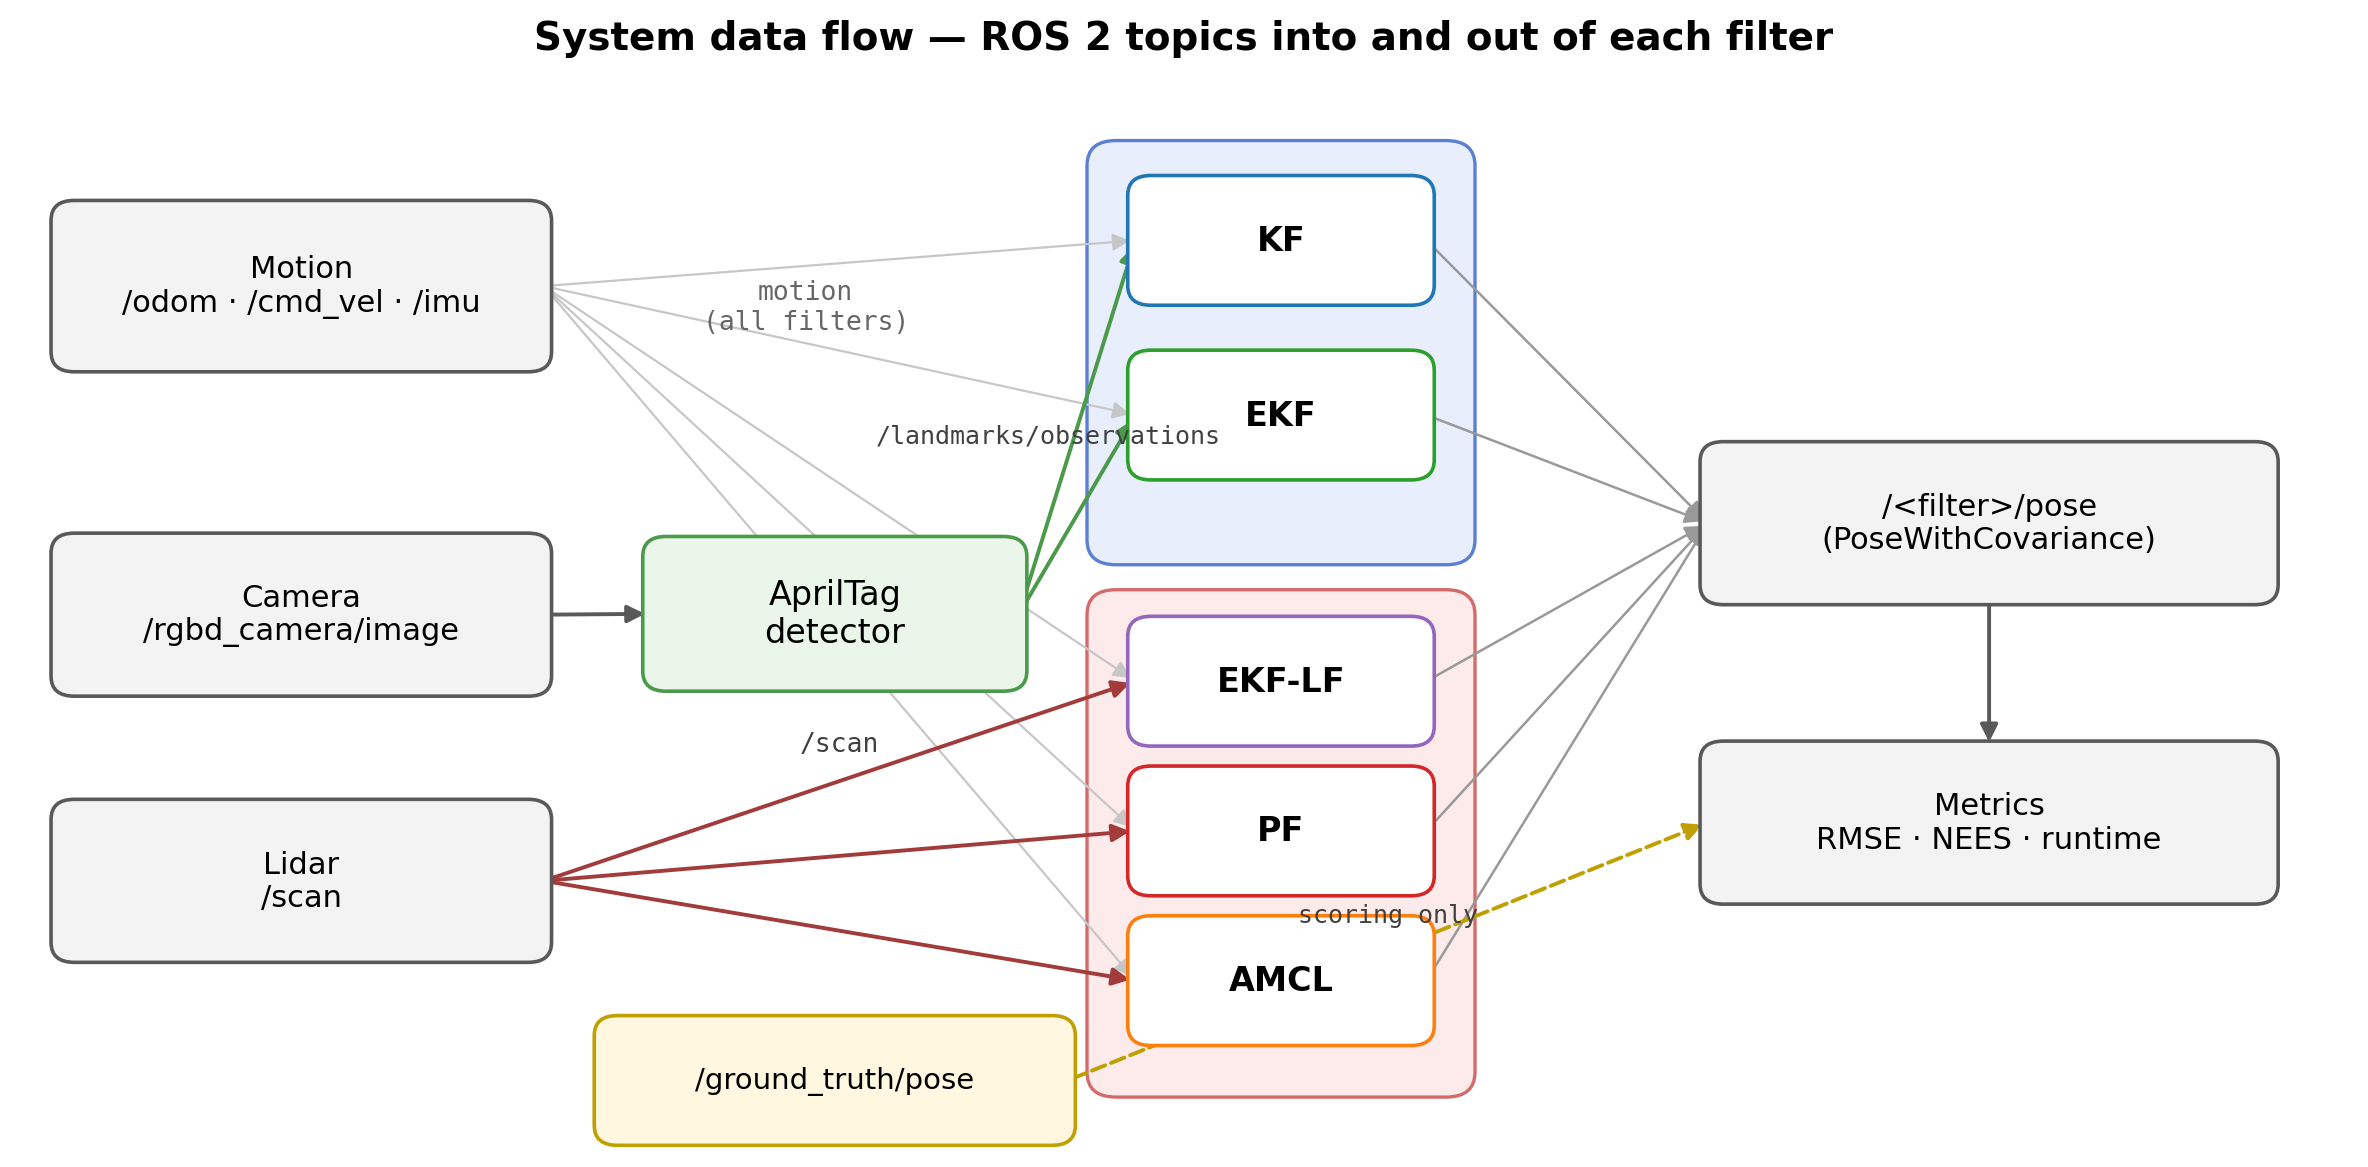
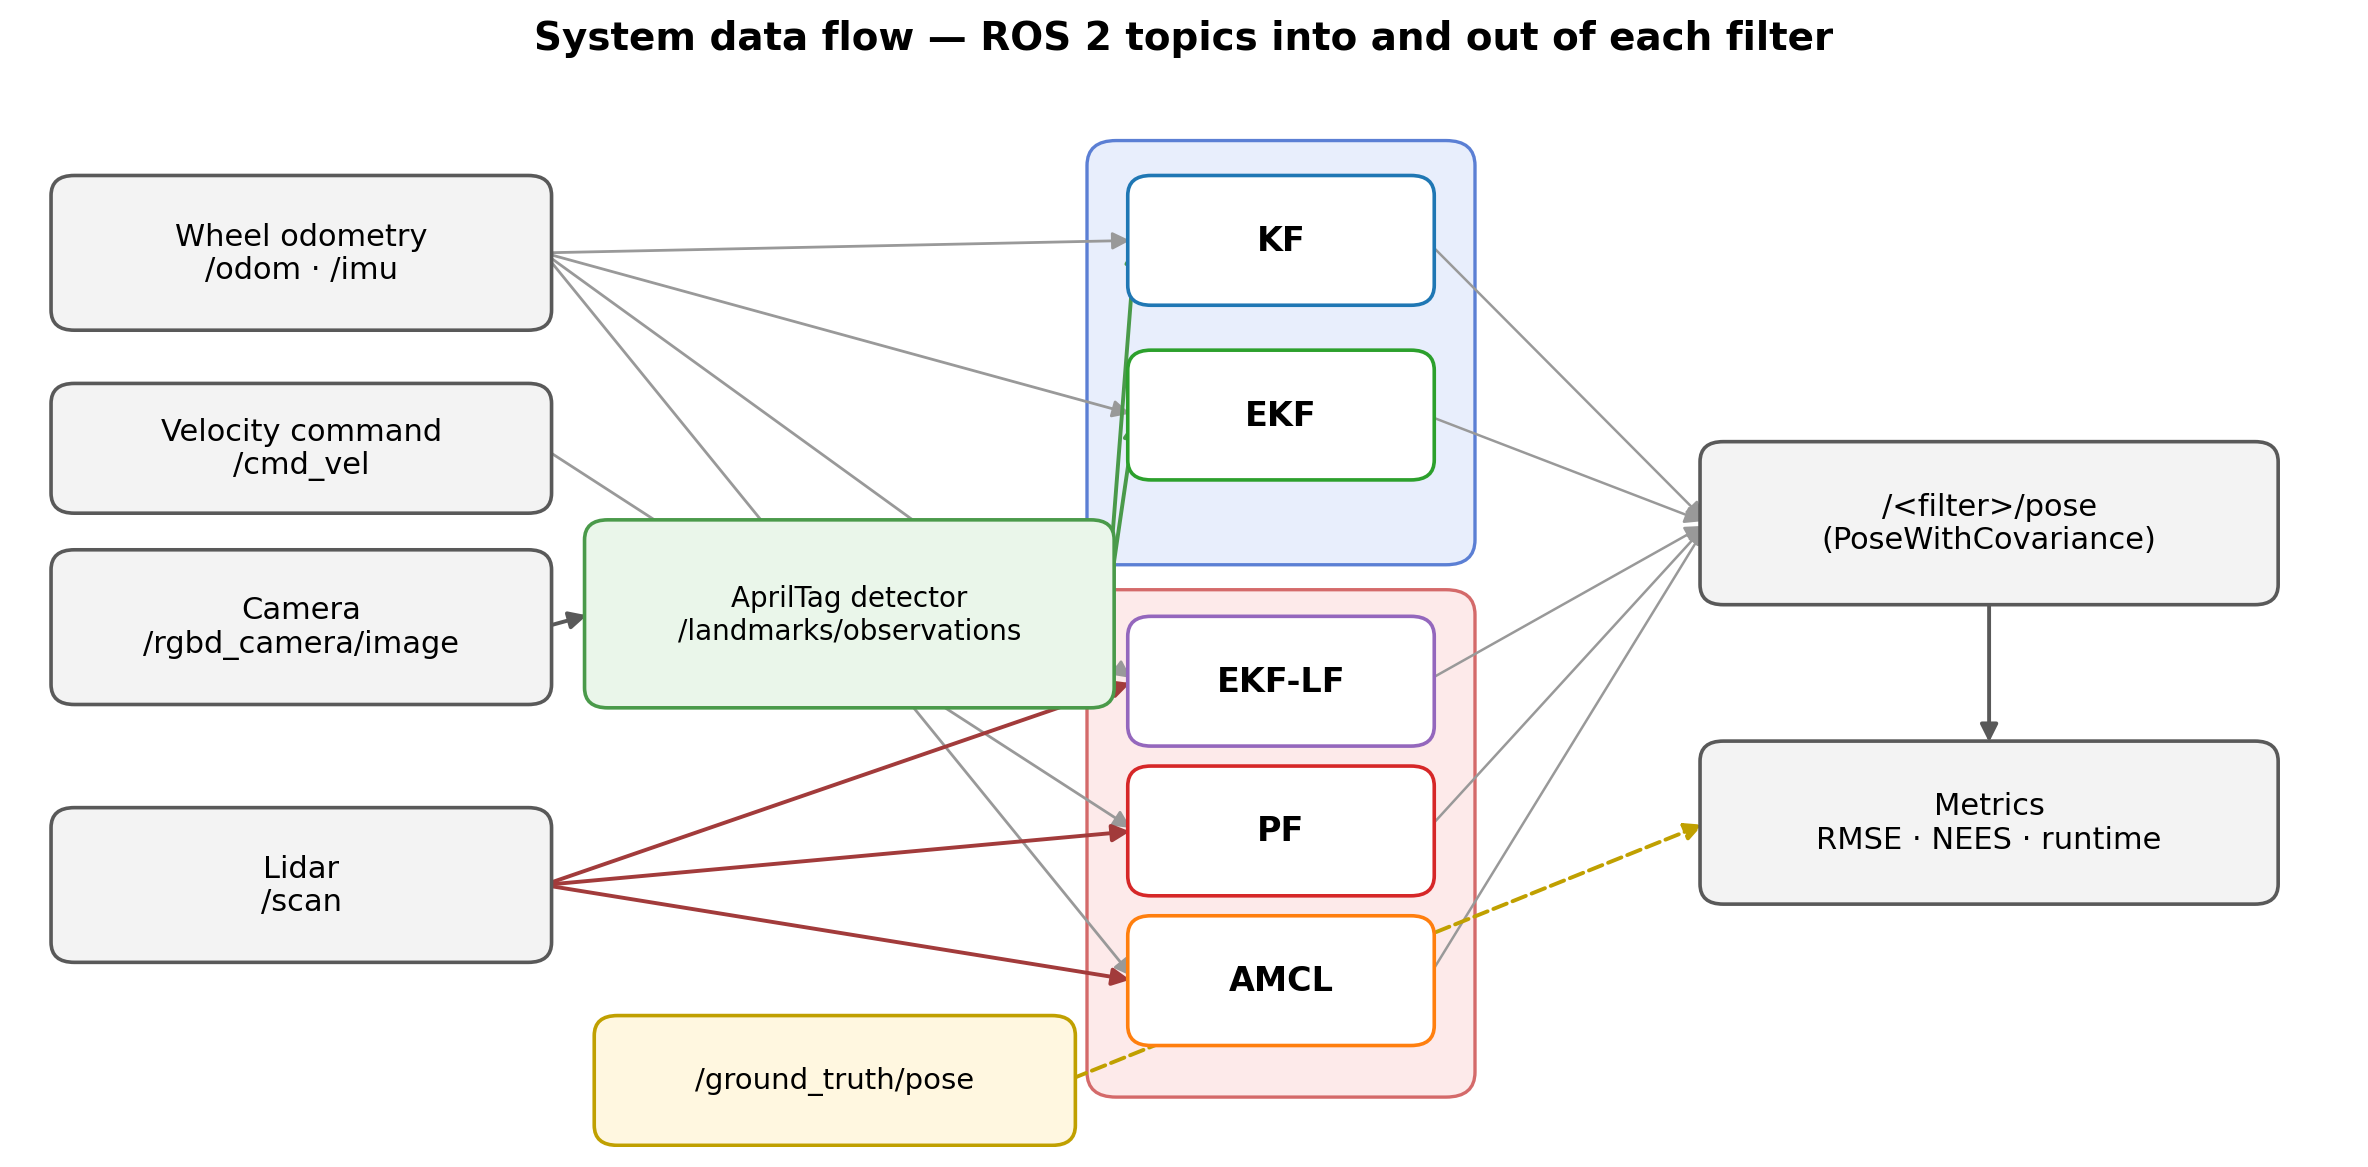
fix(dataflow): correct motion inputs (/odom+/imu vs /cmd_vel for PF), all labels inside boxes; update paper caption

diff --git a/ProbRob_Paper_Template_Englisch/paper.tex b/ProbRob_Paper_Template_Englisch/paper.tex
@@ -55,7 +55,7 @@ All experiments run on a simulated TurtleBot~4 (differential drive) in Gazebo~\c
 \begin{figure*}[!t]
     \centering
     \includegraphics[width=0.96\textwidth]{images/dataflow.png}
-    \caption{System data flow. Wheel odometry, \texttt{/cmd\_vel} and the IMU drive every filter's motion model; the camera image is turned by the AprilTag detector into \texttt{/landmarks/observations} consumed by the landmark filters (KF, EKF), while \texttt{/scan} drives the scan filters (EKF-LF, PF, AMCL). Each filter publishes \texttt{/<filter>/pose}; ground truth feeds the metrics only, never a filter.}
+    \caption{System data flow. Wheel odometry (\texttt{/odom}) and the IMU drive the motion model of KF, EKF and EKF-LF (and AMCL via TF); the PF instead uses the \texttt{/cmd\_vel} velocity command. The camera image is turned by the AprilTag detector into \texttt{/landmarks/observations}, consumed by the landmark filters (KF, EKF), while \texttt{/scan} drives the scan filters (EKF-LF, PF, AMCL). Each filter publishes \texttt{/<filter>/pose}; ground truth feeds the metrics only, never a filter.}
     \label{fig:dataflow}
 \end{figure*}
 